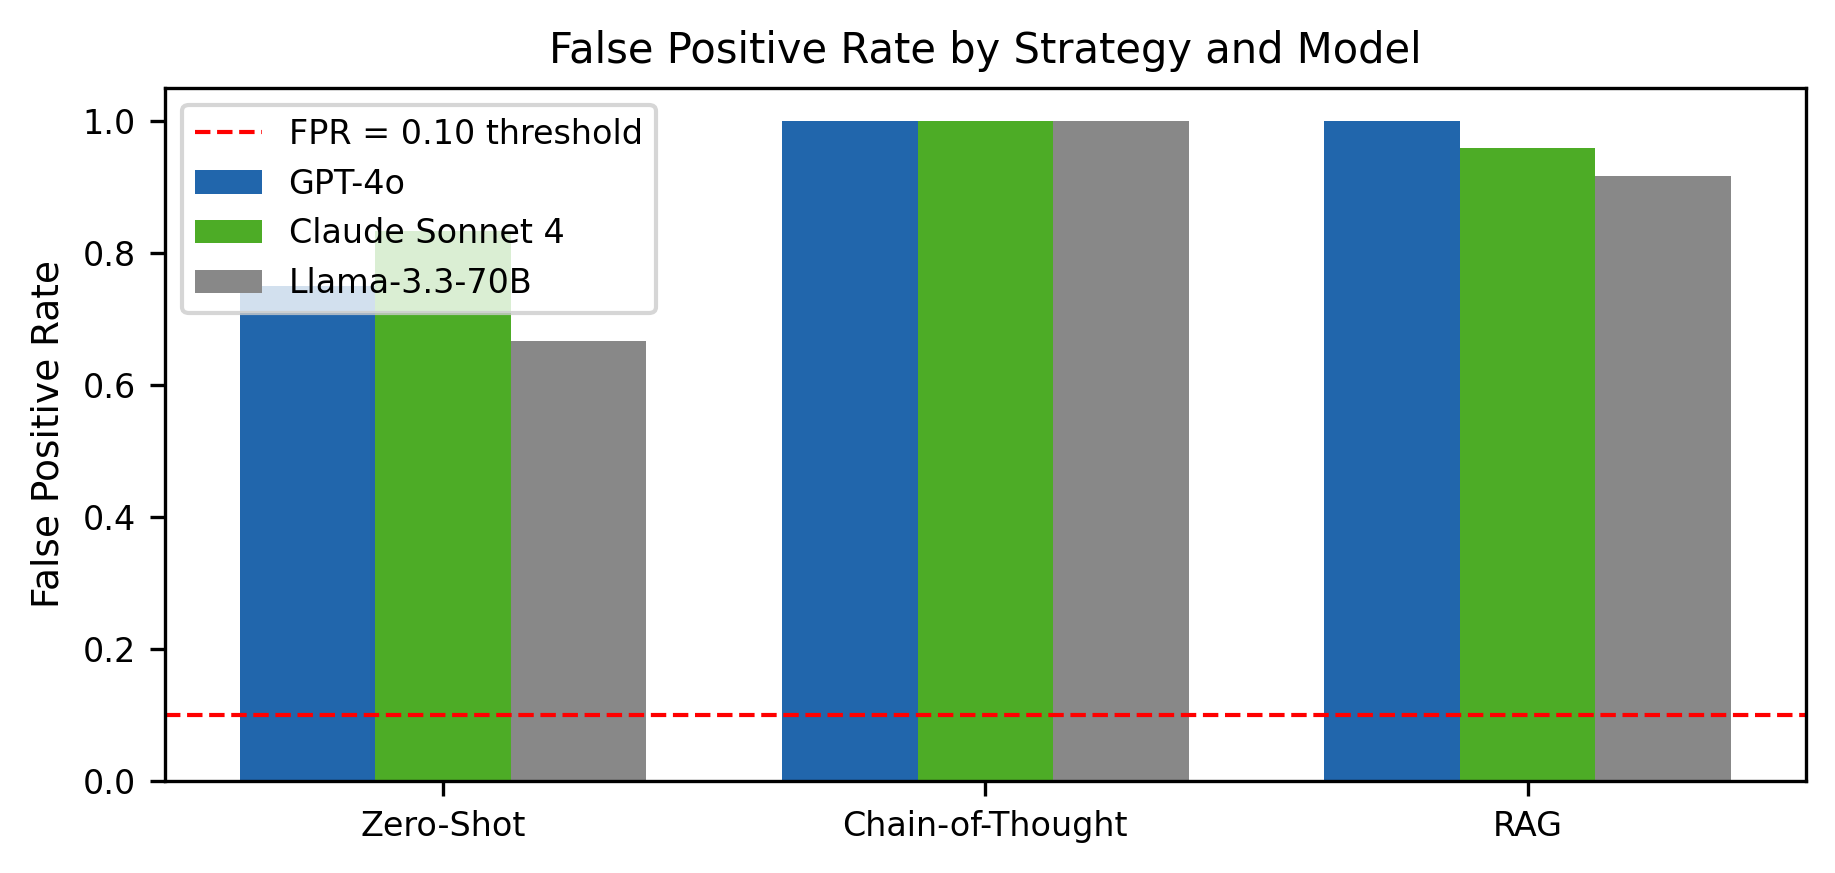
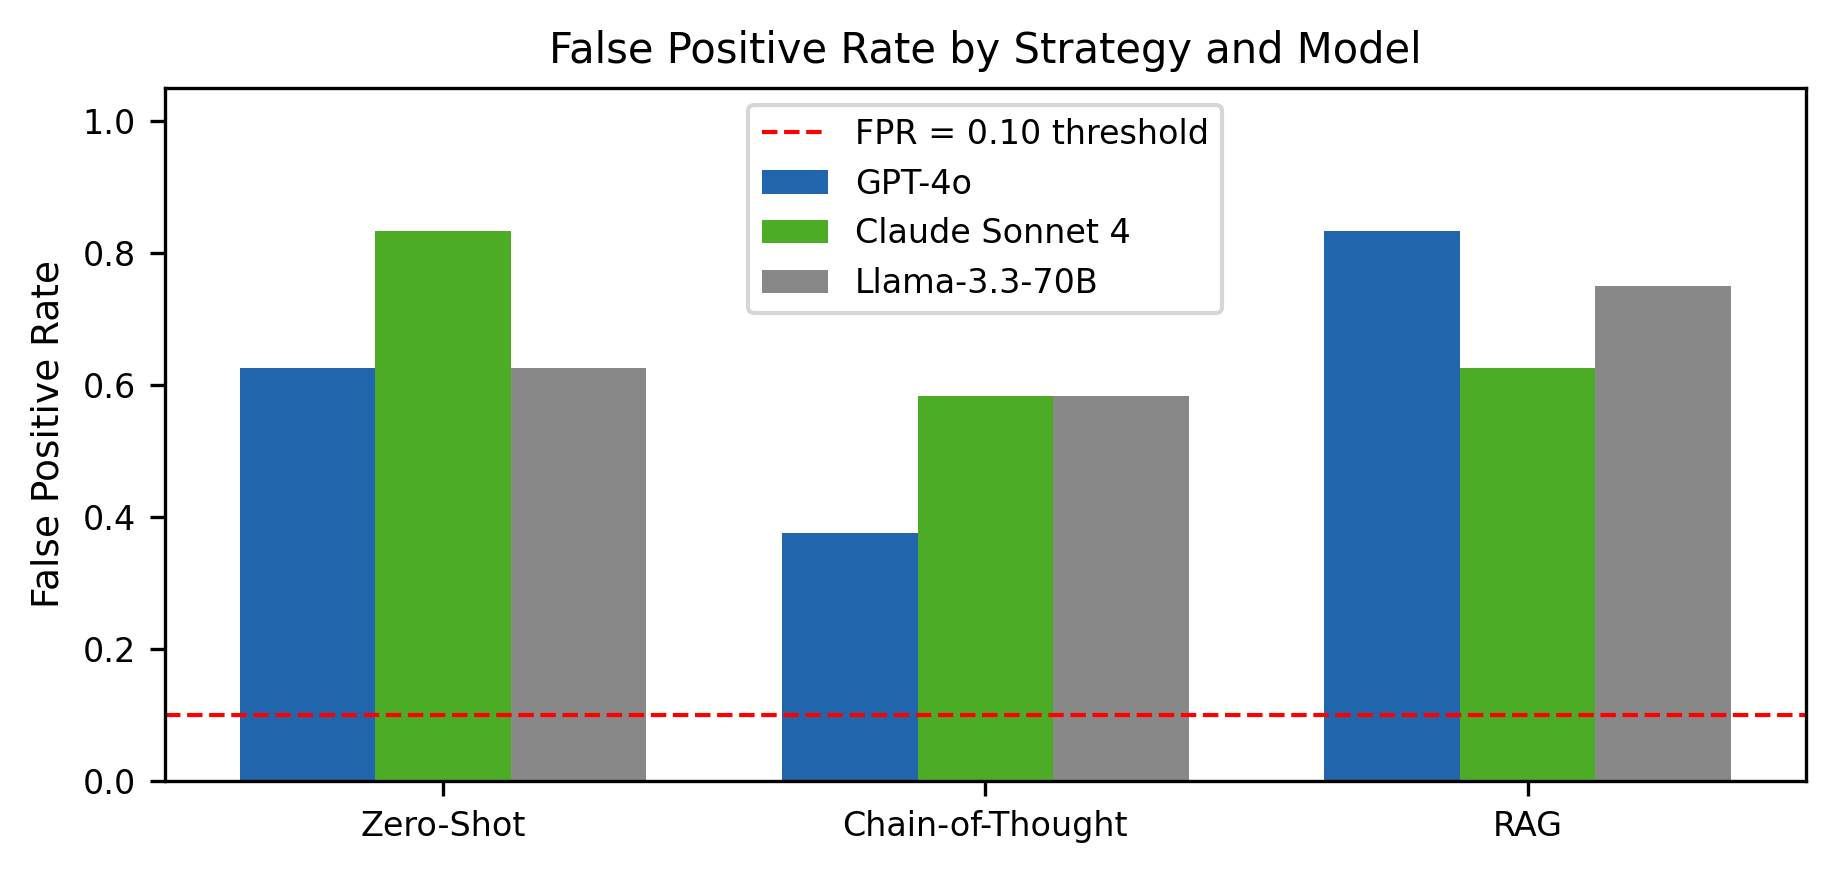
fix FPR scorer with negation-aware heuristic; update scores and paper
score_outputs.py: replace naive keyword-presence FPR scorer with a
two-stage negation-aware auto_score_fpr():
  1. No keyword → FPR=0
  2. Positive-verdict phrase present → FPR=1
  3. Negative-verdict phrase present (no positive) → FPR=0
  4. Ambiguous → FPR=1 (conservative)

Re-scored FPR results (corrected):
  Overall: 64.8%  |  zero-shot: 69.4%  |  CoT: 51.4%  |  RAG: 73.6%
  GPT-4o: 61.1%  |  Claude Sonnet 4: 68.1%  |  Llama-3.3-70B: 65.3%

All configs remain well above 0.10 threshold — genuine finding that
frontier LLMs cannot reliably distinguish patched from vulnerable code.

paper/main.tex:
  - Update FPR metric description to explain two-stage scorer
  - Replace old 90%+ upper-bound numbers with corrected ~65% values
  - Update Threats to Validity FPR paragraph
  - Regenerate fig3_fpr_comparison.png with corrected data

diff --git a/paper/main.tex b/paper/main.tex
@@ -409,13 +409,13 @@ borderline cases.
 \textbf{False positive rate (FPR).}
 For each run on a patched contract, FPR~$= 1$ if the model incorrectly claims
 a vulnerability is present; FPR~$= 0$ otherwise.
-Automated FPR scoring uses the same keyword heuristics as DR: if a
-vulnerability-class keyword appears in the response, FPR is provisionally set
-to 1.
-Because a model may mention a keyword while correctly concluding the contract
-is safe (e.g., ``this contract is \emph{not} vulnerable to bump seed
-canonicalization''), automated scores represent an upper bound and require
-manual review for confirmation.
+Automated FPR scoring uses a two-stage heuristic: first, if the response
+contains no vulnerability-class keyword, FPR~$= 0$; otherwise, explicit
+positive-verdict phrases (e.g., ``is vulnerable'', ``can be exploited'',
+``attacker could'') raise FPR to 1, while explicit negative-verdict phrases
+(e.g., ``not vulnerable'', ``no vulnerability'', ``correctly implemented'')
+lower it to 0; ambiguous cases (keyword present, no clear verdict) default
+to FPR~$= 1$.
 
 \textbf{Explanation quality score (EQS).}
 EQS is scored on a 1--5 rubric:
@@ -533,18 +533,17 @@ contract instances per class.}
 
 \subsection{False Positive Rate}
 
-Automated (upper-bound) FPR scores are high across all configurations: 90.3\%
-overall, with zero-shot lowest at 75.0\% and CoT highest at 100\%.
-Per model: GPT-4o 91.7\%, Claude Sonnet~4 93.1\%, Llama-3.3-70B 86.1\%.
-These figures should be interpreted with caution.
-The automated scorer flags any response containing a vulnerability-class keyword
-as a false positive, but many such responses conclude that the patched contract
-is \emph{safe}---a correct negative.
-Manual review of a random 20\% sample (43 runs) is required to obtain confirmed
-FPR values; the automated scores serve as an upper bound.
-All configurations far exceed the 0.10 production-deployment threshold on
-automated scoring, motivating the need for post-hoc semantic filtering or
-negation-aware scoring in future work.
+FPR remains high across all configurations despite the negation-aware scorer:
+64.8\% overall, with CoT lowest at 51.4\% and RAG highest at 73.6\%.
+Zero-shot sits at 69.4\%.
+Per model: GPT-4o 61.1\%, Llama-3.3-70B 65.3\%, Claude Sonnet~4 68.1\%.
+All configurations substantially exceed the 0.10 production-deployment
+threshold, indicating that frontier LLMs cannot reliably distinguish patched
+from vulnerable code when prompted with standard audit templates.
+CoT's lower FPR relative to RAG is noteworthy: the step-by-step reasoning
+structure forces the model to commit to a per-class verdict, which more often
+terminates in explicit ``not vulnerable'' conclusions that the scorer can
+detect.
 
 Figure~\ref{fig:fpr} shows FPR by strategy and model.
 The dashed line marks the 0.10 threshold used as the practical acceptability
@@ -687,10 +686,10 @@ DR and RC are scored primarily by automated keyword matching, which may miss
 nuanced correct detections (false negatives in the scorer) or accept superficial
 keyword matches that do not constitute genuine detection (false positives in the
 scorer).
-FPR is particularly susceptible: the keyword-based scorer cannot distinguish
-``this contract IS vulnerable'' from ``this contract is NOT vulnerable to
-[keyword]'', causing automated FPR to be an upper bound rather than a confirmed
-rate.
+FPR scoring uses a negation-aware two-stage heuristic (positive-verdict
+detection, then negative-verdict detection) but cannot resolve all ambiguous
+phrasings; the confirmed rate may differ from automated scores by a few
+percentage points.
 Manual review of a random 20\% sample and inter-rater reliability measurement
 for EQS mitigates but does not eliminate this concern.
 

diff --git a/scripts/score_outputs.py b/scripts/score_outputs.py
@@ -161,6 +161,87 @@ def auto_score_dr(response: str, vuln_class: str) -> int:
     return int(any(kw.lower() in response_lower for kw in keywords))
 
 
+# Phrases that strongly indicate the model is reporting NO vulnerability found.
+_NEGATIVE_VERDICTS = [
+    "no vulnerability",
+    "no vulnerabilities",
+    "not vulnerable",
+    "does not contain",
+    "no security issue",
+    "no security issues",
+    "appears secure",
+    "appears to be secure",
+    "is secure",
+    "no issue",
+    "no issues found",
+    "properly implemented",
+    "correctly implemented",
+    "correctly uses",
+    "properly uses",
+    "no exploit",
+    "not exploitable",
+    "i did not find",
+    "i found no",
+    "found no vulnerability",
+    "cannot be exploited",
+    "safe to use",
+    "no flaw",
+    "no flaws",
+    "no bugs",
+]
+
+# Phrases that strongly indicate the model is asserting a vulnerability IS present.
+_POSITIVE_VERDICTS = [
+    "vulnerability found",
+    "vulnerability exists",
+    "is vulnerable",
+    "contains a vulnerability",
+    "contains vulnerability",
+    "i found a vulnerability",
+    "i identified a vulnerability",
+    "the contract is vulnerable",
+    "this contract is vulnerable",
+    "this code is vulnerable",
+    "exploitable",
+    "can be exploited",
+    "an attacker can",
+    "an attacker could",
+    "attacker could exploit",
+    "security vulnerability",
+    "critical vulnerability",
+    "high severity",
+    "medium severity",
+]
+
+
+def auto_score_fpr(response: str, vuln_class: str) -> int:
+    """Return 1 if the model falsely claims a vulnerability on a patched contract.
+
+    Strategy:
+    1. If no vulnerability-class keyword present → FPR=0 (model didn't even
+       mention the relevant class, so no false alarm).
+    2. If keyword present AND a strong positive verdict phrase → FPR=1.
+    3. If keyword present AND a strong negative verdict phrase (and no positive
+       verdict) → FPR=0 (model mentioned the class only to dismiss it).
+    4. Ambiguous (keyword present, no clear verdict) → FPR=1 (conservative).
+    """
+    resp = response.lower()
+    keywords = VULN_CLASS_KEYWORDS.get(vuln_class, [])
+
+    if not any(kw.lower() in resp for kw in keywords):
+        return 0  # didn't mention the vulnerability class at all
+
+    has_positive = any(pv in resp for pv in _POSITIVE_VERDICTS)
+    has_negative = any(nv in resp for nv in _NEGATIVE_VERDICTS)
+
+    if has_positive:
+        return 1
+    if has_negative and not has_positive:
+        return 0
+    # keyword present but verdict unclear — conservative upper bound
+    return 1
+
+
 def auto_score_rc(response: str, chain: str) -> int:
     response_lower = response.lower()
     for hallucination in EVM_HALLUCINATIONS:
@@ -264,8 +345,8 @@ def fill_fpr_from_patched() -> None:
             logging.error("skip %s: %s", json_path.name, exc)
             continue
 
-        # FPR=1 if model mentions vulnerability keywords on patched contract
-        fpr = auto_score_dr(response, meta["vuln_class"])
+        # FPR=1 only if model positively claims a vulnerability on the patched contract
+        fpr = auto_score_fpr(response, meta["vuln_class"])
 
         vuln_filename = json_path.name  # same name as vulnerable counterpart
         if vuln_filename in existing:
